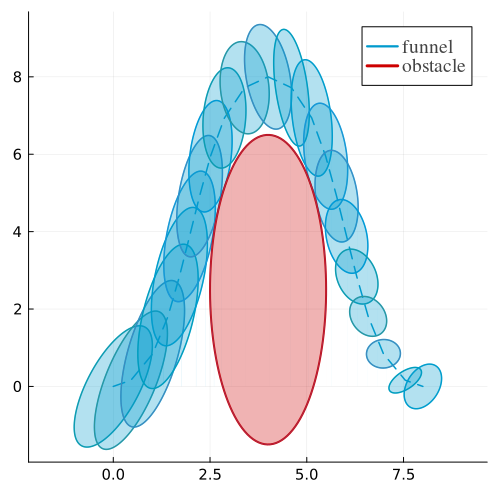
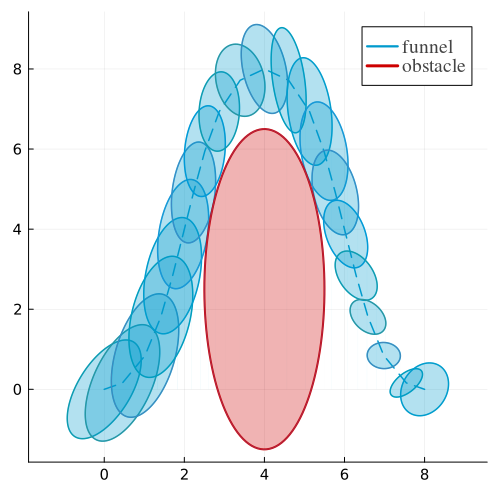
update results

diff --git a/README.md b/README.md
@@ -11,23 +11,23 @@ When you run the script, you will see output similar to this:
 lambda_w: 0.01 cost: diverged
 lambda_w: 0.1 cost: diverged
 lambda_w: 0.2 cost: diverged
-lambda_w: 0.3 cost: -2.9688720423906876
-lambda_w: 0.4 cost: -2.3676169371262916
-lambda_w: 0.5 cost: -1.7733578432040027
-lambda_w: 0.6 cost: -1.3306349270016562
-lambda_w: 0.7 cost: -1.000456781445645
-lambda_w: 0.8 cost: -0.7488982249417353
-lambda_w: 1.0 cost: -0.3726782425864384
-lambda_w: 1.2 cost: 0.04401437311050141
+lambda_w: 0.3 cost: diverged
+lambda_w: 0.4 cost: -1.6146634651615779
+lambda_w: 0.5 cost: -1.2677957110849758
+lambda_w: 0.6 cost: -0.9375495294408782
+lambda_w: 0.7 cost: -0.668375134455112
+lambda_w: 0.8 cost: -0.4516073113167959
+lambda_w: 1.0 cost: -0.08499232120706683
+lambda_w: 1.2 cost: diverged
 lambda_w: 1.4 cost: diverged
 lambda_w: 1.6 cost: diverged
 lambda_w: 1.8 cost: diverged
 lambda_w: 2.0 cost: diverged
-0.3 is picked
+0.4 is picked
 ======== First copositive condition ========
-lambda_w: 0.3 cost: -2.9688720423906876 solve time 0.30774497985839844
+lambda_w: 0.4 cost: -1.6146634651615779 solve time 1.6425070762634277
 ======== Second copositive condition ========
-lambda_w: 0.3 cost: -3.0321508863107156 solve time 0.6913230419158936
+lambda_w: 0.4 cost: -1.6695095445502524 solve time 8.342612028121948
 ```
 ### Generated Figure
 The script also generates and saves a figure to ./funnels.png, which illustrates the results of the funnels.
